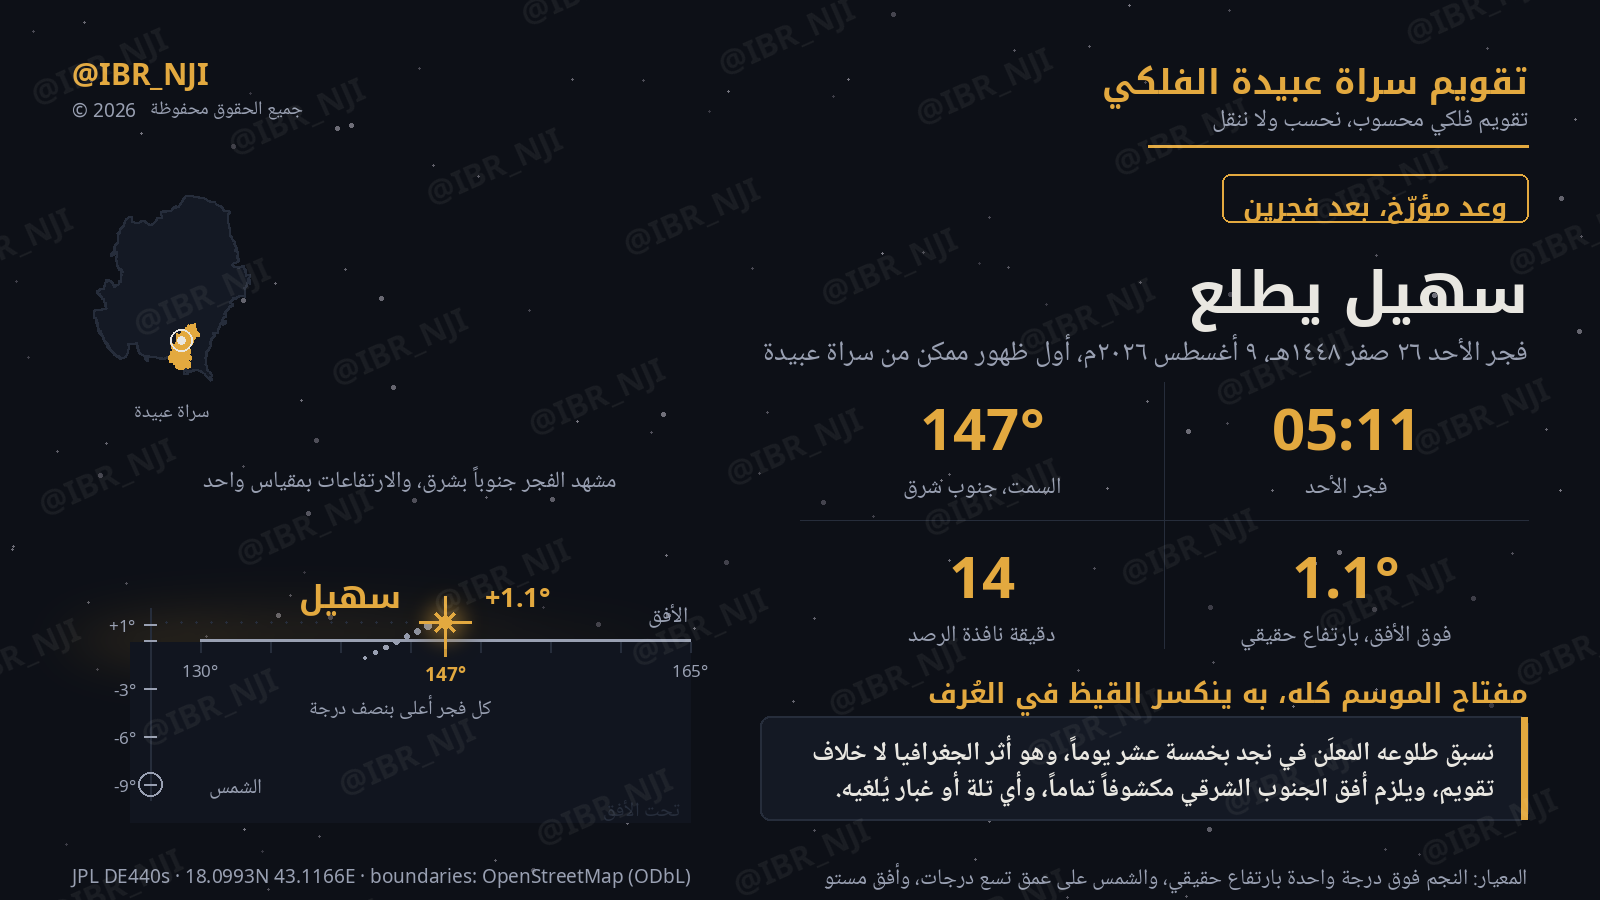
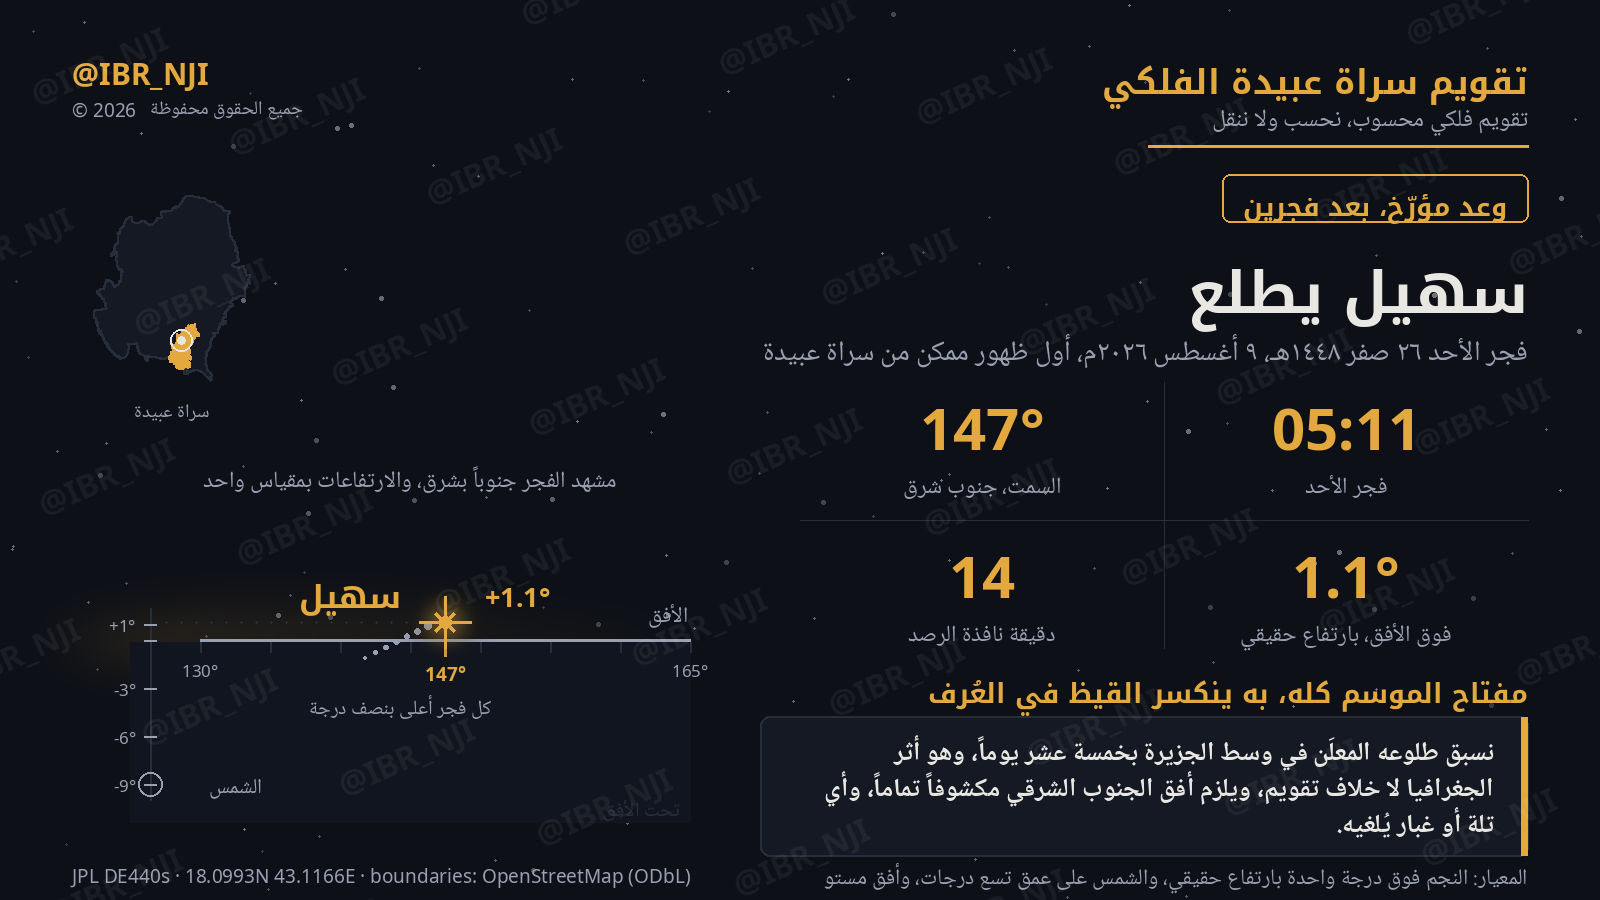
استبدال نجد/الرياض بـ«وسط الجزيرة» في كل بطاقة وصفحة سردية — وبقيت جداول المعايرة الفنية (المدن الحقيقية بإحداثياتها الدقيقة) كما هي

Changed region(s): [[0.5, 0.8089, 0.9688, 0.9644]]

diff --git a/suhail.html b/suhail.html
@@ -112,11 +112,11 @@
 </section>
 
 <section class="reveal">
-  <div class="sec-head"><h2>لماذا سراة عبيدة تسبق نجداً</h2><span class="tag">أثر الجغرافيا لا خلاف التقويم</span></div>
+  <div class="sec-head"><h2>لماذا سراة عبيدة تسبق وسط الجزيرة</h2><span class="tag">أثر الجغرافيا لا خلاف التقويم</span></div>
   <div class="panels">
     <div class="panel">
       <h3>الفرق ستّ درجات ونصف</h3>
-      <p>بين سراة عبيدة والرياض ستّ درجات ونصف من خط العرض. وسهيل نجم جنوبي
+      <p>بين سراة عبيدة ووسط الجزيرة ستّ درجات ونصف من خط العرض. وسهيل نجم جنوبي
       (ميله <span class="num">−52.7°</span>)، فكلما اتجهتَ جنوباً بكّر طلوعه —
       <strong>خمسة عشر يوماً</strong> في موعده هذا العام.</p>
     </div>

diff --git a/index.html b/index.html
@@ -62,7 +62,7 @@
     <div><b>18.1°</b><span>خط عرض الحساب — لهذا الموقع وحده</span></div>
     <div><b>0.02°</b><span>أقصى فرق عن مرصد جت بروبلجن</span></div>
     <div><b>36/36</b><span>شهراً يعيد المحرّك إنتاج قاعدة أم القرى</span></div>
-    <div><b>15</b><span>يوماً يسبق سهيلُنا تقويمَ نجد — أثر الجغرافيا</span></div>
+    <div><b>15</b><span>يوماً يسبق سهيلُنا تقويمَ وسط الجزيرة — أثر الجغرافيا</span></div>
     <div><b>2360</b><span>متراً فوق سطح البحر — ضغطاً وخفوتاً</span></div>
   </div>
 </section>
